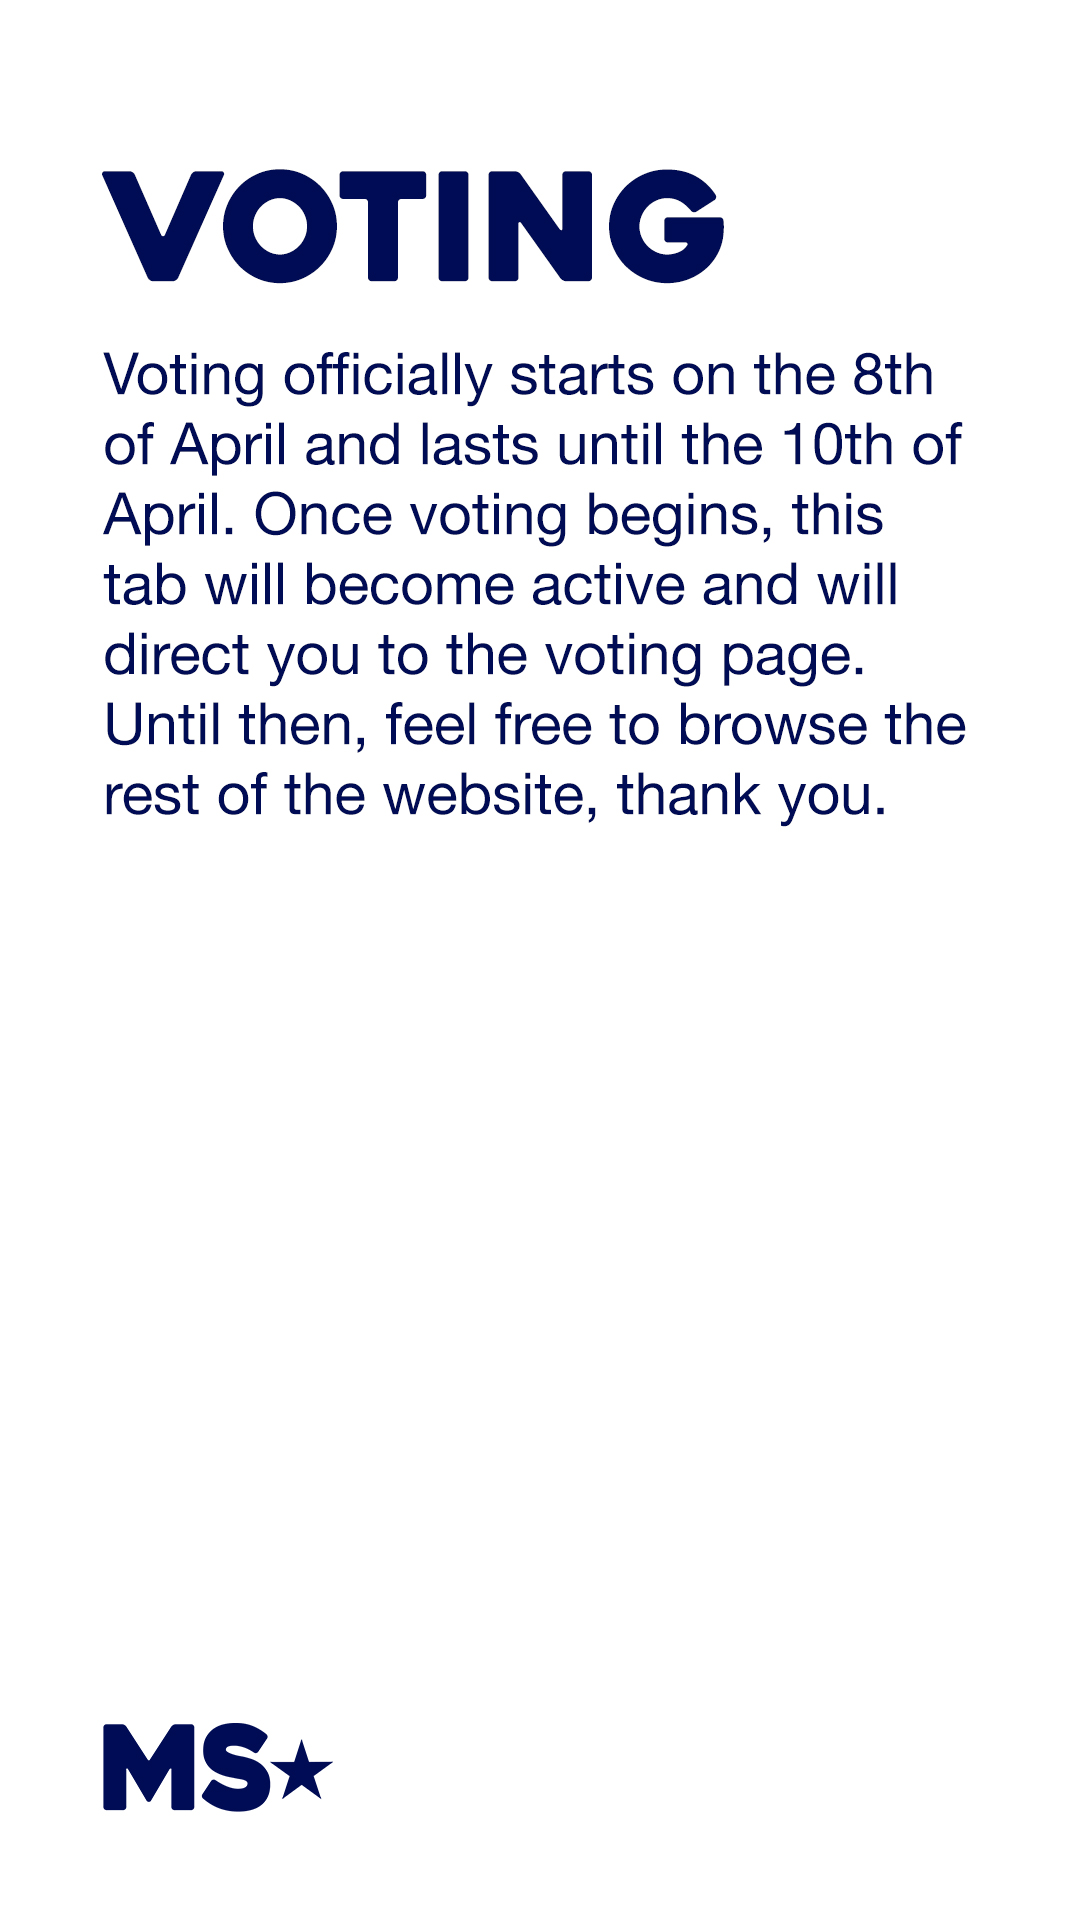
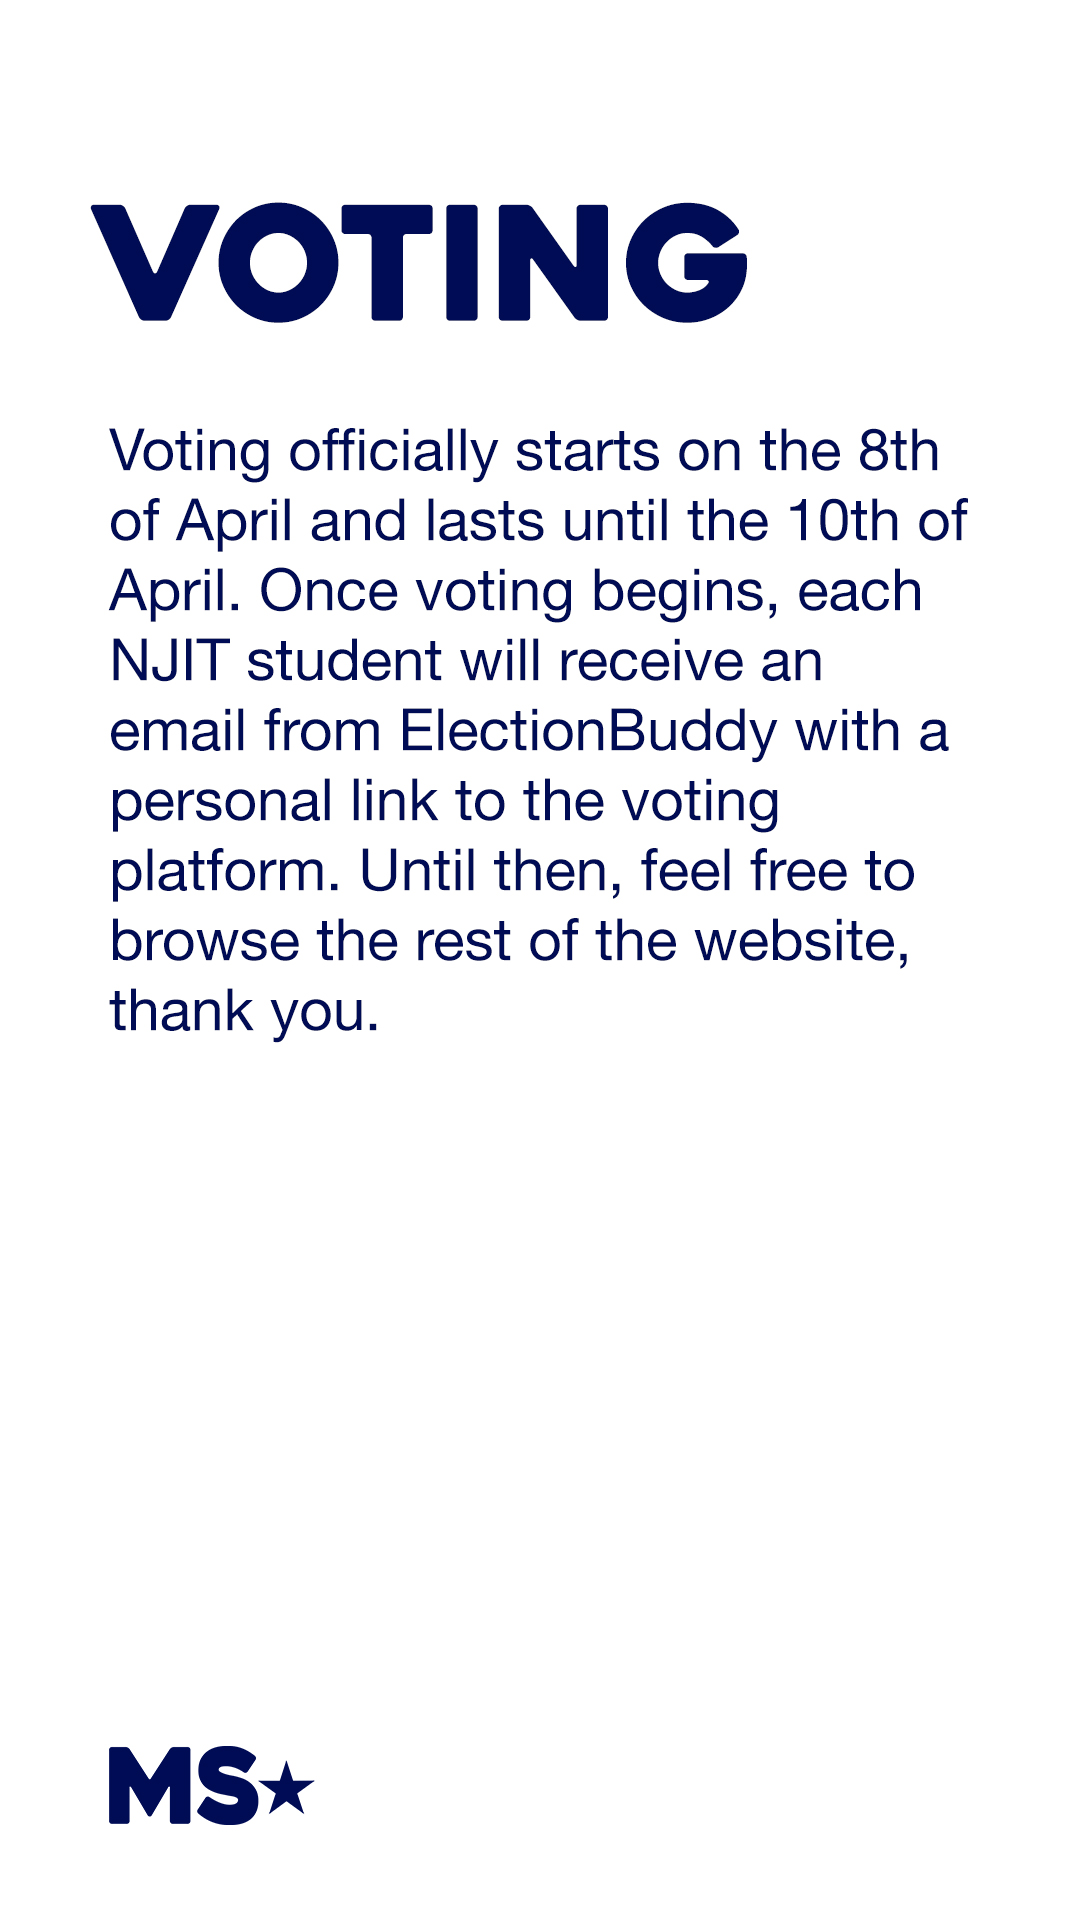
changes to voting page and candidate statement

Changed region(s): [[0.0917, 0.0625, 0.9167, 0.5625], [0.0917, 0.875, 0.3056, 0.9688]]

diff --git a/index.html b/index.html
@@ -56,12 +56,12 @@
         <div class="container-fluid" id="statement">
           <h1> Candidate's Statement</h1>
           <p>Through my previous tenure within the roles that I have assumed, I gained valuable experience that I intend to apply towards advancing our shared goals, as your next President. 
-            If elected, I would take the opportunity to make Senate more accessible to all students. 
+            If elected, I would take the opportunity <b><em>to make Senate more accessible to all students.</em></b> 
             As NJIT continues to grow, it is important to make changes within Senate aligned with a larger population. 
-            To do so, I will dive into Student Senate’s structure in order to find a more effective model. 
-            I would host town halls to foster more communication and accountability between students, senators 
-            and administration and continue to advocate for DEI, such as advocating for female focused gym hours which I have already begun supporting. 
-            Lastly, I would use the role to run more community outreach programs throughout the year within the external affairs committee, open to all students to give back to the community we are a large part of. 
+            To do so, <b><em>I will dive into Student Senate’s structure</em></b> in order to find a more effective model. 
+            <b><em>I would host town halls</em></b> to foster more communication and accountability between students, senators 
+            and administration <b><em>and continue to advocate for DEI</em></b>, such as advocating for female focused gym hours which I have already begun supporting. 
+            Lastly, I would <b><em>use the role to run more community outreach programs</em></b> throughout the year within the external affairs committee, open to all students to give back to the community we are a large part of. 
           </p>
         </div>
 

diff --git a/voting.html b/voting.html
@@ -36,9 +36,8 @@
         <div id="desktop">
             <h1>VOTING</h1>
             <p>Voting officially starts on the 8th of April and lasts until the
-                10th of April. Once voting begins, this tab will become active and
-                will direct you to the voting page. Until then, feel free to browse
-                the rest of the website, thank you.
+                10th of April. Once voting begins, each NJIT student will receive an email from ElectionBuddy with a personal 
+                link to the voting platform. Until then, feel free to browse the rest of the website, thank you.
             </p>
         </div>
         <div id="mobile">
